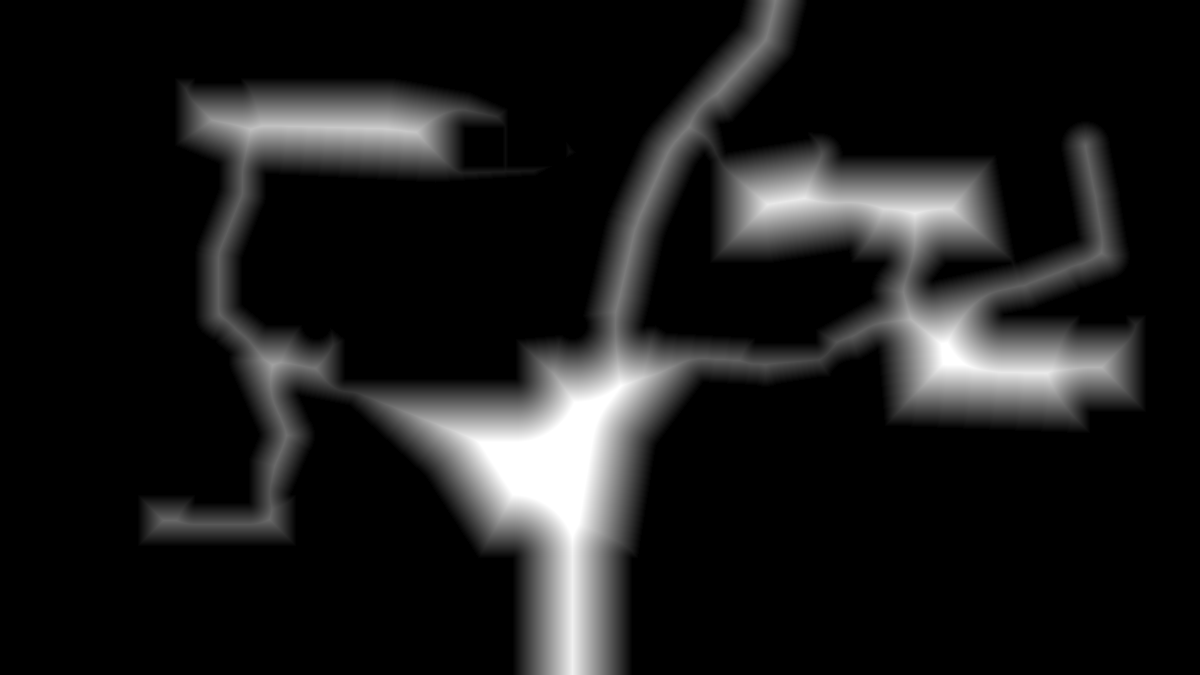
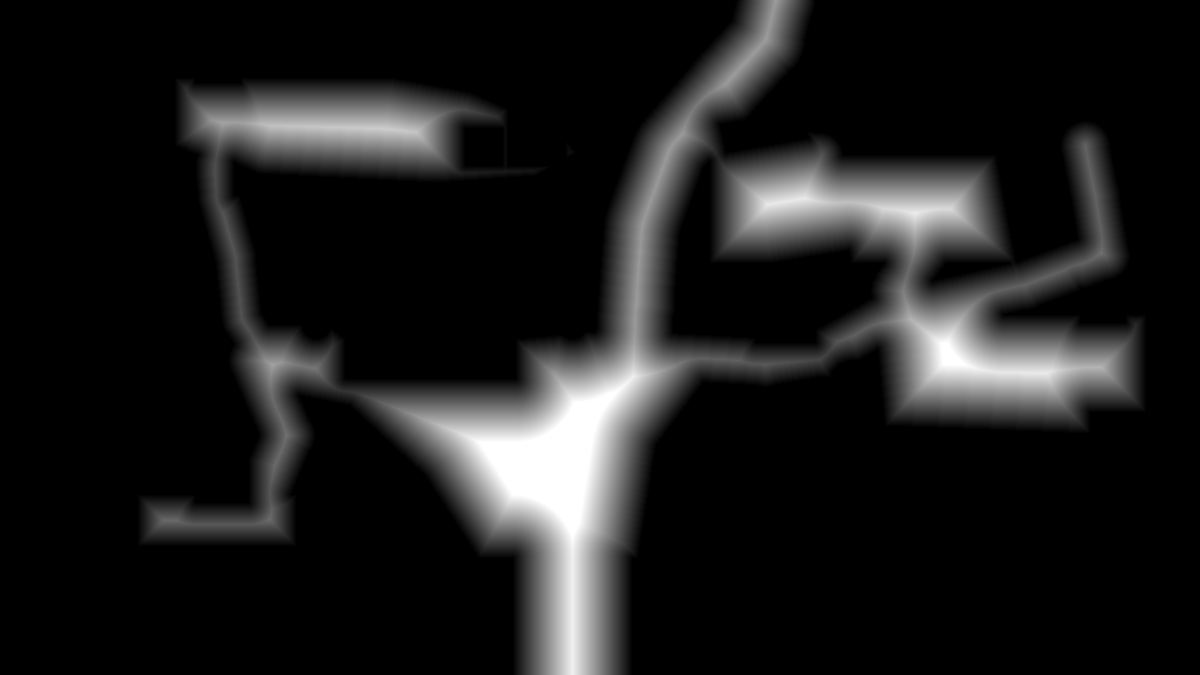
fix(pallet-anime3q): V6.3.1 Rota 1 north trail, waterfall pond & stair-top fence collisions

Changed region(s): [[0.4933, 0.0, 0.6783, 0.56], [0.1542, 0.1867, 0.2158, 0.5289]]

diff --git a/tools/build_walkmasks_v6.py b/tools/build_walkmasks_v6.py
@@ -351,15 +351,17 @@ def build_rota1_mask():
     add_thick_path(d, [(255, 360), (288, 435), (255, 512)], half_width=26)
 
     # 3. Main North Dirt Trail -> Top Exit to Viridian (x=725..845, y=0..38)
+    # Widened at the southern crossroads (x=600..675) so walking straight up east of Nara has no invisible wall
     add_thick_path(d, [
-        (600, 375), (620, 295), (636, 225), (670, 148),
+        (632, 375), (636, 305), (642, 225), (670, 148),
         (722, 88), (766, 40), (776, 0)
-    ], half_width=30)
+    ], half_width=38)
 
     # 4. NORTHWEST HUNTING MEADOW (inside wooden fence)
+    # Shifted east onto the stone stairs & cobblestone so player feet stay out of the waterfall pond
     add_thick_path(d, [
-        (255, 345), (218, 315), (218, 255), (242, 195), (242, 155)
-    ], half_width=23)
+        (265, 355), (242, 320), (235, 255), (218, 195), (215, 165)
+    ], half_width=20)
     nw_meadow = [
         (175, 78), (395, 78), (470, 92), (555, 130), (575, 152),
         (535, 175), (435, 182), (240, 172), (175, 145)
@@ -382,12 +384,16 @@ def build_rota1_mask():
     d.ellipse([302, 310, 330, 338], fill=0)
     d.ellipse([558, 312, 586, 338], fill=0)
 
+    # Waterfall pond & lower cascade edge (keep player out of water)
+    d.ellipse([130, 285, 218, 358], fill=0)
+
     # SW cottage & flower pots
     d.polygon([(0, 340), (215, 340), (215, 492), (0, 492)], fill=0)
     d.rectangle([195, 450, 248, 502], fill=0)
 
-    # NW meadow fence & stumps
+    # NW meadow fence, stair-top right fence post & stumps
     d.polygon([(0, 120), (195, 155), (195, 190), (0, 170)], fill=0)
+    d.polygon([(234, 162), (268, 178), (268, 200), (234, 195)], fill=0)
     d.polygon([(276, 184), (515, 184), (515, 224), (276, 224)], fill=0)
     d.rectangle([195, 48, 240, 82], fill=0)
     d.rectangle([465, 128, 502, 165], fill=0)
